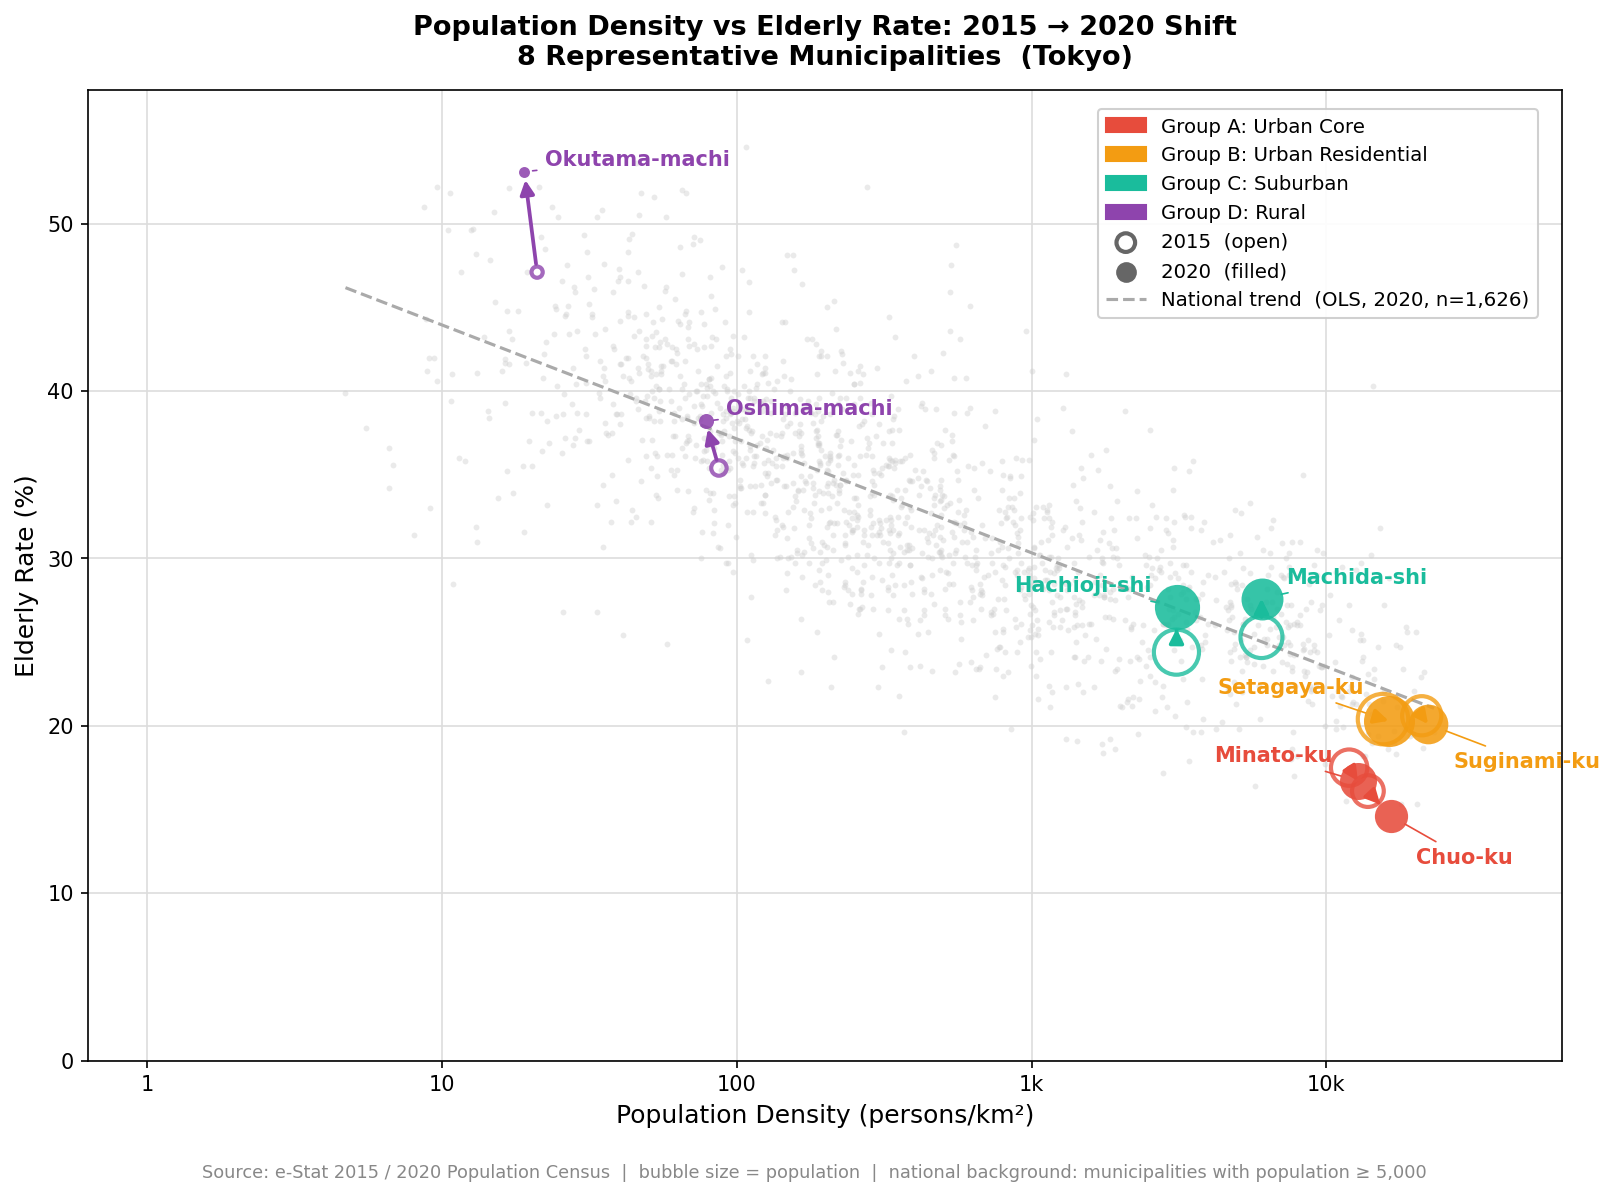
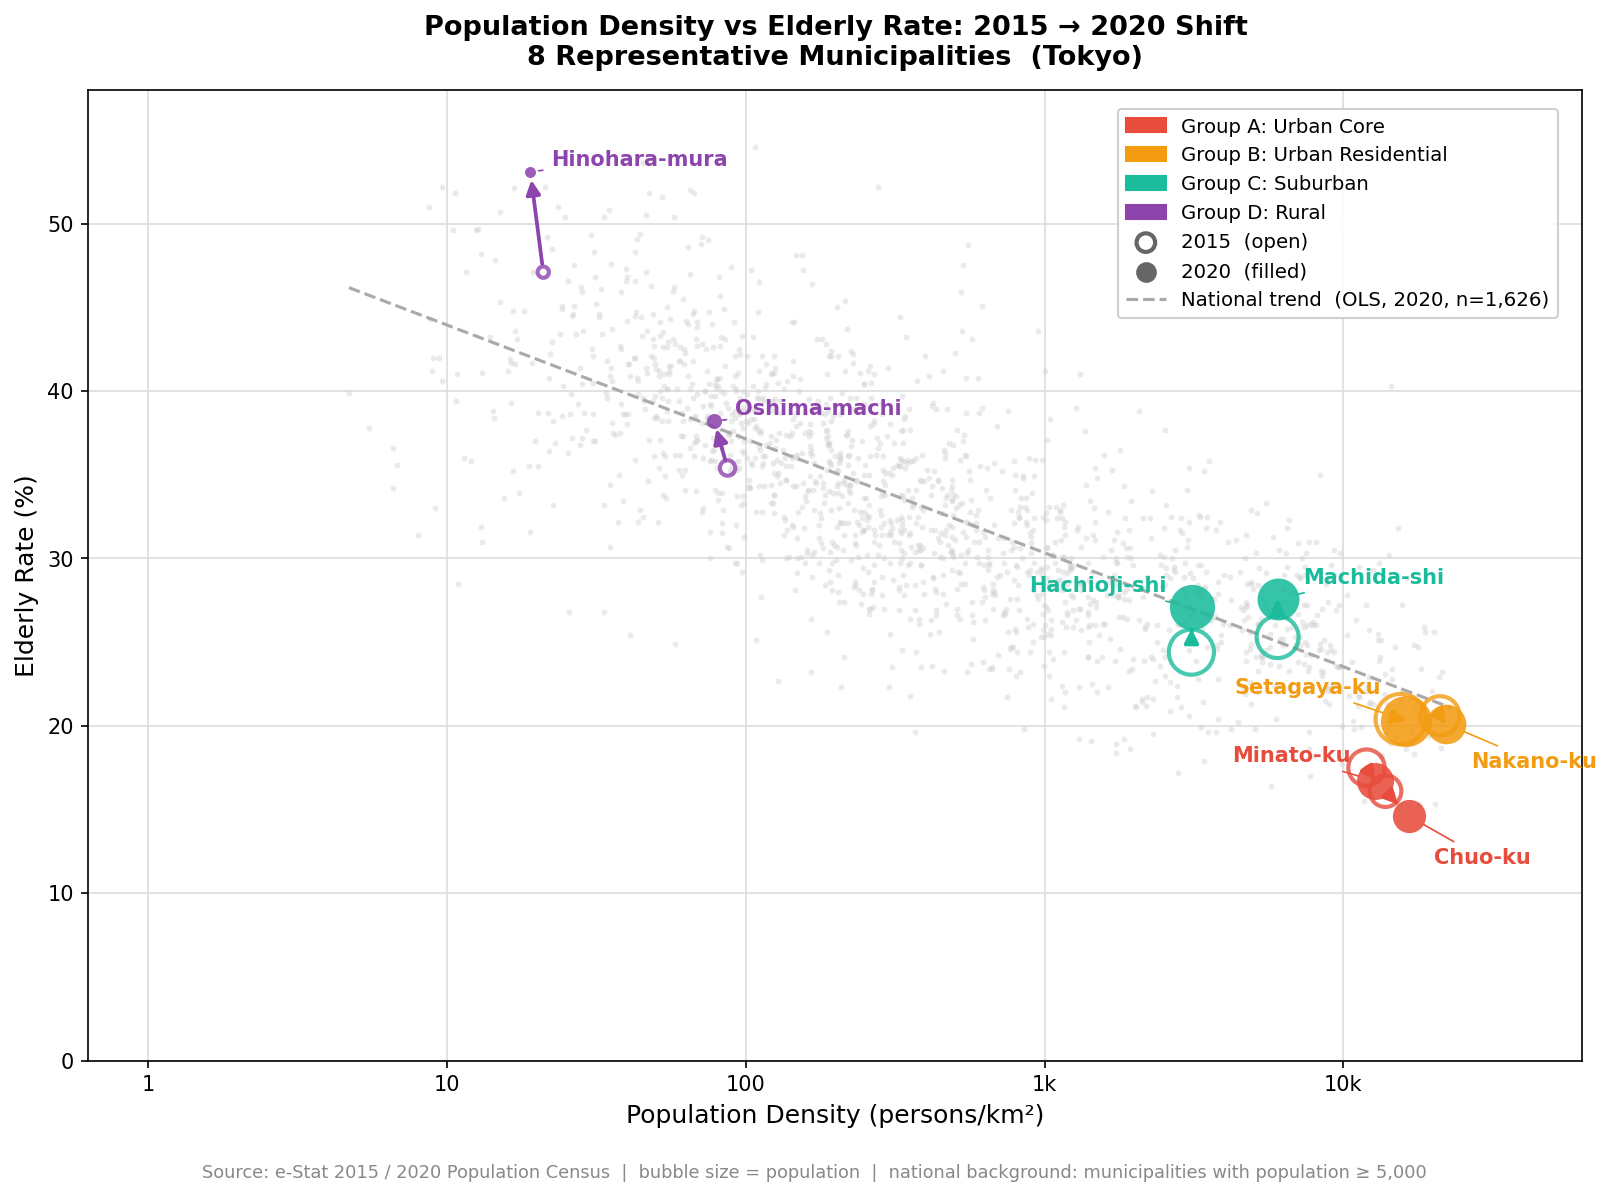
Update 01-03 analysis doc: correct municipality names and add map
- Fix §1 summary text: 'slower' not 'faster' for Group B
- §4 Spatial Overview: add QGIS map image reference (01-03_spatial_overview.png)
  and update municipality table (Suginami-ku → Nakano-ku, Okutama-machi → Hinohara-mura)
- §5 Group B verification: Suginami → Nakano throughout
- §5 Group D verification: Okutama-machi → Hinohara-mura throughout

diff --git a/docs/analysis/01-03_urban_aging_dynamics.md b/docs/analysis/01-03_urban_aging_dynamics.md
@@ -13,7 +13,7 @@
 | D | Rural | Less dense + Older | ✅ Confirmed |
 
 Three of the four groups moved as hypothesised.
-Group B aged faster than expected — a finding that itself carries important implications
+Group B aged more slowly than expected — a finding that itself carries important implications
 (see §5).
 
 ---
@@ -57,7 +57,9 @@ moved across that space between the 2015 and 2020 censuses.
 
 ## 4. Spatial Overview
 
-> *QGIS map showing the location of the 8 municipalities — to be added.*
+![Spatial overview: 8 representative municipalities](../images/01-03_spatial_overview.png)
+
+*8 representative municipalities colour-coded by urban-type group — visualised in QGIS with OpenStreetMap base layer.*
 
 The eight municipalities span the full density spectrum of the Tokyo Metropolitan area:
 from the hyper-dense central wards (Chuo-ku: ~11,000 persons/km²)
@@ -70,10 +72,10 @@ not a subtle statistical distinction.
 | A – Urban Core | Chuo-ku | Central business/residential district; tower condominiums |
 | A – Urban Core | Minato-ku | Embassies, corporate HQs, luxury residential |
 | B – Urban Residential | Setagaya-ku | Largest ward by population; established low-rise residential |
-| B – Urban Residential | Suginami-ku | Dense mid-rise residential; commuter belt |
+| B – Urban Residential | Nakano-ku | Dense urban residential; major commuter hub and shopping district |
 | C – Suburban | Hachioji-shi | Western Tokyo suburb; university town |
 | C – Suburban | Machida-shi | Southern Tokyo suburb; commercial corridor |
-| D – Rural | Okutama-machi | Remote mountain town; depopulation already advanced |
+| D – Rural | Hinohara-mura | Tokyo's only village; mountainous, small population, high elderly rate |
 | D – Rural | Oshima-machi | Volcanic island; isolated, small population base |
 
 ---
@@ -133,14 +135,14 @@ to less expensive surrounding areas.
 
 **Group B – Urban Residential: ⚠ Aging Slower Than Expected**
 
-Setagaya-ku and Suginami-ku remained almost exactly in place —
+Setagaya-ku and Nakano-ku remained almost exactly in place —
 density changed little and the elderly rate was essentially flat,
 or showed a marginal decline rather than the increase we predicted.
 
 This is a more optimistic outcome than hypothesised.
 A plausible explanation:
 the relatively high property values and strong residential reputation
-of inner-city suburbs like Setagaya and Suginami continue to attract
+of inner-city wards like Setagaya and Nakano continue to attract
 younger, higher-income households, enough to partially offset
 the natural aging of the existing resident base.
 Unlike the dramatic rejuvenation driven by tower-condominium development
@@ -150,7 +152,7 @@ rather than a structural shift.
 Whether this stability persists into the next decade depends on
 whether younger in-migration can be sustained as Group A central wards
 continue to absorb demand. If the competitive advantage of these
-inner suburbs weakens, the trajectory may shift toward the Group C pattern.
+inner wards weakens, the trajectory may shift toward the Group C pattern.
 
 ---
 
@@ -167,11 +169,11 @@ The demographic echo of the high-growth era is arriving on schedule.
 
 **Group D – Rural: ✅ Confirmed**
 
-Okutama-machi and Oshima-machi moved leftward and upward —
+Hinohara-mura and Oshima-machi moved leftward and upward —
 falling density and rising elderly share.
-The arrow length for Okutama-machi is particularly striking:
-because the total population is already small (~5,000),
-even a modest absolute out-migration produces a large shift in elderly share.
+The arrow length for Hinohara-mura is particularly striking:
+as Tokyo's only village, its population base is already extremely small,
+so even a modest absolute out-migration produces a large shift in elderly share.
 This amplification effect means that small rural municipalities
 can deteriorate rapidly once a threshold of depopulation is crossed.
 
